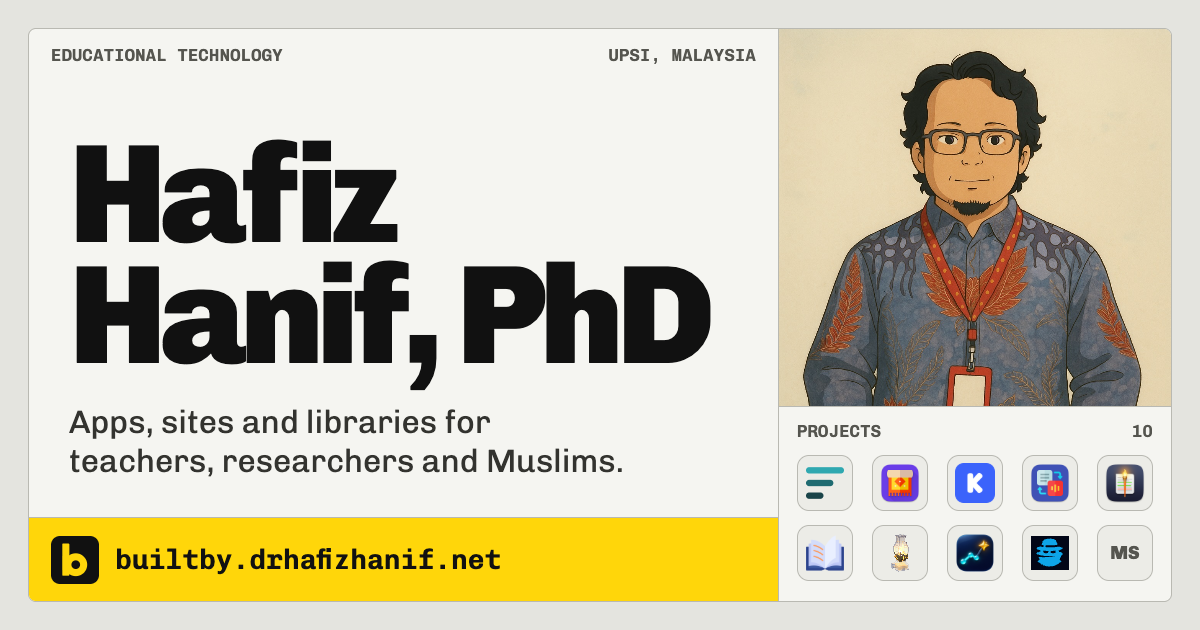
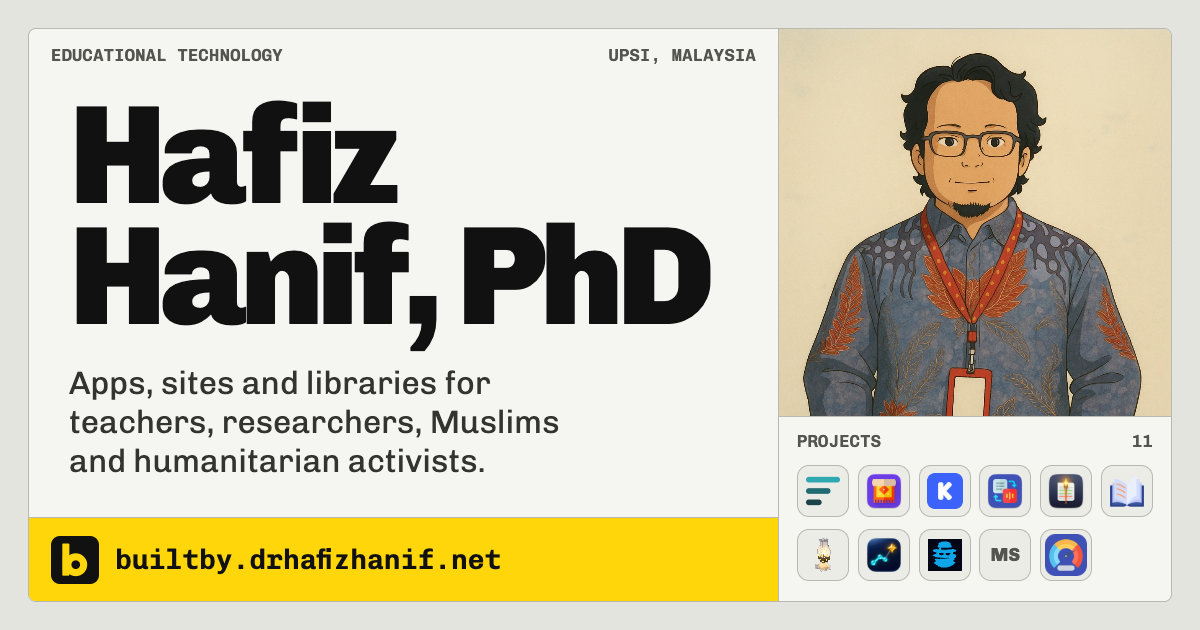
Add SiagaX Bencana under a new group for humanitarian activists
SiagaX Bencana (bencana.mapim.dev) gets its own page: live river alerts,
station history, JKM relief centres, MET Malaysia earthquake bulletins and
weather warnings, and place search, with its icon, a screenshot of the live
map and a link preview. The copy follows what the live site shows.

A fifth audience, For humanitarian activists, joins the hero index and the
home page, where it takes one column on its own row. The hero, footer, site
description and preview alt text now name it.

The main link preview now fits up to twelve project icons in two rows, so
all eleven projects show. SuluhDiff's preview is redrawn with its current
tagline and screenshot.

diff --git a/src/data/projects.ts b/src/data/projects.ts
@@ -17,13 +17,14 @@ export const statusLabels: Record<ProjectStatus, string> = {
   'open-source': 'Open source',
 };
 
-export type AudienceId = 'researchers' | 'teachers' | 'muslims' | 'developers';
+export type AudienceId = 'researchers' | 'teachers' | 'muslims' | 'developers' | 'humanitarians';
 
 export const audiences: { id: AudienceId; title: string }[] = [
   { id: 'researchers', title: 'For researchers' },
   { id: 'teachers', title: 'For teachers and students' },
   { id: 'muslims', title: 'For Muslims' },
   { id: 'developers', title: 'For developers' },
+  { id: 'humanitarians', title: 'For humanitarian activists' },
 ];
 
 export interface ProjectIconSource {
@@ -833,5 +834,62 @@ export const projects: Project[] = [
     npmPackage: 'my-school-list',
     install: 'npm i my-school-list',
     screens: [{ src: '/screens/myschoollist.jpg', caption: 'The MySchoolList documentation page.' }],
+  },
+  {
+    slug: 'siagax-bencana',
+    schema: { category: 'UtilitiesApplication' },
+    name: 'SiagaX Bencana',
+    kind: 'app',
+    audience: 'humanitarians',
+    status: 'live',
+    icon: { src: '/icons/siagax-bencana.png' },
+    platforms: ['Web', 'Installable on phones'],
+    tagline: 'Live flood alerts, river levels and relief centres across Malaysia, on one map.',
+    about: [
+      'SiagaX Bencana puts Malaysia’s flood and disaster warnings on one live map: rivers at alert level, heavy rain, open relief centres, and earthquake and tsunami bulletins.',
+      'Its data comes from official sources. River levels and rainfall come from Public Infobanjir, relief centres (PPS) from JKM, and weather warnings and earthquake bulletins from MET Malaysia.',
+      'I built it and keep it running for MAPIM Strategic Centre.',
+    ],
+    features: [
+      {
+        title: 'River alerts',
+        detail: 'Stations at Alert, Warning or Danger level, with the water level, whether it is rising, and the last hour’s rainfall.',
+      },
+      {
+        title: 'Station history',
+        detail: 'Open a station to see its water level over the past 7 days and its rainfall over the past 3 days.',
+      },
+      {
+        title: 'Relief centres',
+        detail: 'Open JKM relief centres on the map, with each one’s capacity and how many families, adults, children and babies are sheltering there.',
+      },
+      {
+        title: 'Earthquakes and tsunamis',
+        detail: 'MET Malaysia earthquake bulletins from the past 7 days, with the magnitude and any tsunami watch or warning.',
+      },
+      {
+        title: 'Weather warnings',
+        detail: 'MET Malaysia warnings scroll across the top of the map.',
+      },
+      {
+        title: 'Find a place',
+        detail: 'Search for a place in Malaysia and pin it on the map in a colour you choose.',
+      },
+    ],
+    facts: [
+      { label: 'Runs in', value: 'Your web browser, and installs on phones' },
+      { label: 'On phones', value: 'The map only. The alerts and details need a larger screen.' },
+      { label: 'Data from', value: 'Public Infobanjir, JKM and MET Malaysia' },
+      { label: 'Run by', value: 'MAPIM Strategic Centre' },
+      { label: 'Price', value: 'Free' },
+      { label: 'Built with', value: 'Next.js and MapLibre, with OpenFreeMap maps' },
+    ],
+    actions: [{ label: 'Open the live map', href: 'https://bencana.mapim.dev' }],
+    screens: [
+      {
+        src: '/screens/siagax-bencana.jpg',
+        caption: 'The live map, with river alerts on the left and relief centres and earthquake reports on the right.',
+      },
+    ],
   },
 ];

diff --git a/index.html b/index.html
@@ -30,7 +30,7 @@
     <!-- Primary Meta Tags -->
     <title>Apps Built By Hafiz Hanif, PhD</title>
     <meta name="title" content="Apps Built By Hafiz Hanif, PhD" />
-    <meta name="description" content="Apps, sites and libraries by Hafiz Hanif, PhD, for researchers, teachers, Muslims and developers: CurTask, SuluhALMS, Kelasruum, Sajda, MagicMeeting and more." />
+    <meta name="description" content="Apps, sites and libraries by Hafiz Hanif, PhD, for researchers, teachers, Muslims, developers and humanitarian activists: CurTask, SuluhALMS, Kelasruum, Sajda, SiagaX Bencana and more." />
     <meta name="author" content="Hafiz Hanif, PhD" />
     <meta name="robots" content="index, follow" />
     <meta name="googlebot" content="index, follow" />
@@ -47,11 +47,11 @@
     <meta property="og:type" content="website" />
     <meta property="og:url" content="https://builtby.drhafizhanif.net" />
     <meta property="og:title" content="Apps Built By Hafiz Hanif, PhD" />
-    <meta property="og:description" content="Apps, sites and libraries by Hafiz Hanif, PhD, for researchers, teachers, Muslims and developers: CurTask, SuluhALMS, Kelasruum, Sajda, MagicMeeting and more." />
+    <meta property="og:description" content="Apps, sites and libraries by Hafiz Hanif, PhD, for researchers, teachers, Muslims, developers and humanitarian activists: CurTask, SuluhALMS, Kelasruum, Sajda, SiagaX Bencana and more." />
     <meta property="og:image" content="https://builtby.drhafizhanif.net/og-image.png" />
     <meta property="og:image:width" content="1200" />
     <meta property="og:image:height" content="630" />
-    <meta property="og:image:alt" content="Hafiz Hanif, PhD: apps, sites and libraries for teachers, researchers and Muslims, with the icons of ten projects." />
+    <meta property="og:image:alt" content="Hafiz Hanif, PhD: apps, sites and libraries for teachers, researchers, Muslims and humanitarian activists, with the project icons." />
     <meta property="og:site_name" content="builtby /drhafizhanif" />
     <meta property="og:locale" content="en_US" />
 
@@ -59,9 +59,9 @@
     <meta name="twitter:card" content="summary_large_image" />
     <meta name="twitter:url" content="https://builtby.drhafizhanif.net" />
     <meta name="twitter:title" content="Apps Built By Hafiz Hanif, PhD" />
-    <meta name="twitter:description" content="Apps, sites and libraries by Hafiz Hanif, PhD, for researchers, teachers, Muslims and developers: CurTask, SuluhALMS, Kelasruum, Sajda, MagicMeeting and more." />
+    <meta name="twitter:description" content="Apps, sites and libraries by Hafiz Hanif, PhD, for researchers, teachers, Muslims, developers and humanitarian activists: CurTask, SuluhALMS, Kelasruum, Sajda, SiagaX Bencana and more." />
     <meta name="twitter:image" content="https://builtby.drhafizhanif.net/og-image.png" />
-    <meta name="twitter:image:alt" content="Hafiz Hanif, PhD: apps, sites and libraries for teachers, researchers and Muslims, with the icons of ten projects." />
+    <meta name="twitter:image:alt" content="Hafiz Hanif, PhD: apps, sites and libraries for teachers, researchers, Muslims and humanitarian activists, with the project icons." />
     <meta name="twitter:creator" content="@apitlekays" />
 
     <!-- Additional SEO -->

diff --git a/src/components/HeroSection.tsx b/src/components/HeroSection.tsx
@@ -1,10 +1,11 @@
-import { audiences, projects } from '../data/projects';
+import { audiences, projects, type AudienceId } from '../data/projects';
 
-const audienceLinkLabels: Record<string, string> = {
+const audienceLinkLabels: Record<AudienceId, string> = {
   researchers: 'Researchers',
   teachers: 'Teachers and students',
   muslims: 'Muslims',
   developers: 'Developers',
+  humanitarians: 'Humanitarian activists',
 };
 
 export function HeroSection() {
@@ -24,7 +25,7 @@ export function HeroSection() {
             </h1>
             <p className="mt-5 sm:mt-6 max-w-[30em] text-lg sm:text-xl leading-snug text-body">
               I teach and research educational technology at Universiti Pendidikan Sultan Idris, and I build software for
-              teachers, researchers and Muslims.
+              teachers, researchers, Muslims and humanitarian activists.
             </p>
           </div>
         </div>

diff --git a/src/data/site.ts b/src/data/site.ts
@@ -1,9 +1,9 @@
 export const siteTitle = 'Apps Built By Hafiz Hanif, PhD';
 
 export const siteDescription =
-  'Apps, sites and libraries by Hafiz Hanif, PhD, for researchers, teachers, Muslims and developers: CurTask, SuluhALMS, Kelasruum, Sajda, MagicMeeting and more.';
+  'Apps, sites and libraries by Hafiz Hanif, PhD, for researchers, teachers, Muslims, developers and humanitarian activists: CurTask, SuluhALMS, Kelasruum, Sajda, SiagaX Bencana and more.';
 
 export const siteImageAlt =
-  'Hafiz Hanif, PhD: apps, sites and libraries for teachers, researchers and Muslims, with the icons of ten projects.';
+  'Hafiz Hanif, PhD: apps, sites and libraries for teachers, researchers, Muslims and humanitarian activists, with the project icons.';
 
 export const siteUrl = 'https://builtby.drhafizhanif.net';

diff --git a/src/pages/HomePage.tsx b/src/pages/HomePage.tsx
@@ -6,12 +6,14 @@ import { audiences, projects, type AudienceId } from '../data/projects';
 import { siteDescription, siteTitle } from '../data/site';
 import { usePageMeta } from '../hooks/usePageMeta';
 
-// How wide each group sits on large screens, out of three columns. Muslims and developers share a row.
+// How wide each group sits on large screens, out of three columns. Muslims and developers share a row;
+// humanitarian activists take one column on the row below.
 const groupWidth: Record<AudienceId, string> = {
   researchers: 'lg:col-span-3',
   teachers: 'lg:col-span-3',
   muslims: 'lg:col-span-1',
   developers: 'lg:col-span-2',
+  humanitarians: 'lg:col-span-1',
 };
 
 export function HomePage() {

diff --git a/src/components/Layout.tsx b/src/components/Layout.tsx
@@ -64,7 +64,7 @@ export function Layout() {
         <div className="rack grid-cols-1 md:grid-cols-[minmax(0,1fr)_auto]">
           <div className="bg-surface px-4 py-4">
             <p className="text-lg font-black tracking-tight">builtby</p>
-            <p className="mt-1 text-sm text-body max-w-xs">Apps, sites and libraries for teachers, researchers and Muslims.</p>
+            <p className="mt-1 text-sm text-body max-w-xs">Apps, sites and libraries for teachers, researchers, Muslims and humanitarian activists.</p>
           </div>
           <ul className="bg-surface px-4 py-4 flex flex-wrap items-center gap-2">
             {footerLinks.map((link) => (

diff --git a/CLAUDE.md b/CLAUDE.md
@@ -55,7 +55,7 @@ scripts/            # fetch-releases.js, run during deploy
 1. Add an entry to `src/data/projects.ts`, with its `audience`. The home page group and row, the `/<slug>` page, the related links, the sitemap and the structured data all come from it.
 2. Put its icon in `public/icons/`, and any screenshots in `public/screens/`.
 3. If it has downloads, set `download` and add the repo to `scripts/fetch-releases.js`.
-4. Run `npm run share-images` and commit the new `public/og/<slug>.png`. It draws the 1200x630 link preview for the project (and redraws `public/og-image.png`, whose icon panel shows the first ten projects) with the Google Chrome installed on this computer, so it does not run during deploy. A project without its image falls back to `og-image.png`.
+4. Run `npm run share-images` and commit the new `public/og/<slug>.png`. It draws the 1200x630 link preview for the project (and redraws `public/og-image.png`, whose icon panel shows the first twelve projects in two rows) with the Google Chrome installed on this computer, so it does not run during deploy. A project without its image falls back to `og-image.png`.
 5. If search engines should read it as something other than an educational app, set `schema` (for example `{ category: 'LifestyleApplication' }`, or `{ type: 'Blog' }`).
 
 Only write what the project's own repo, docs or public site says. Do not link to private repos.
